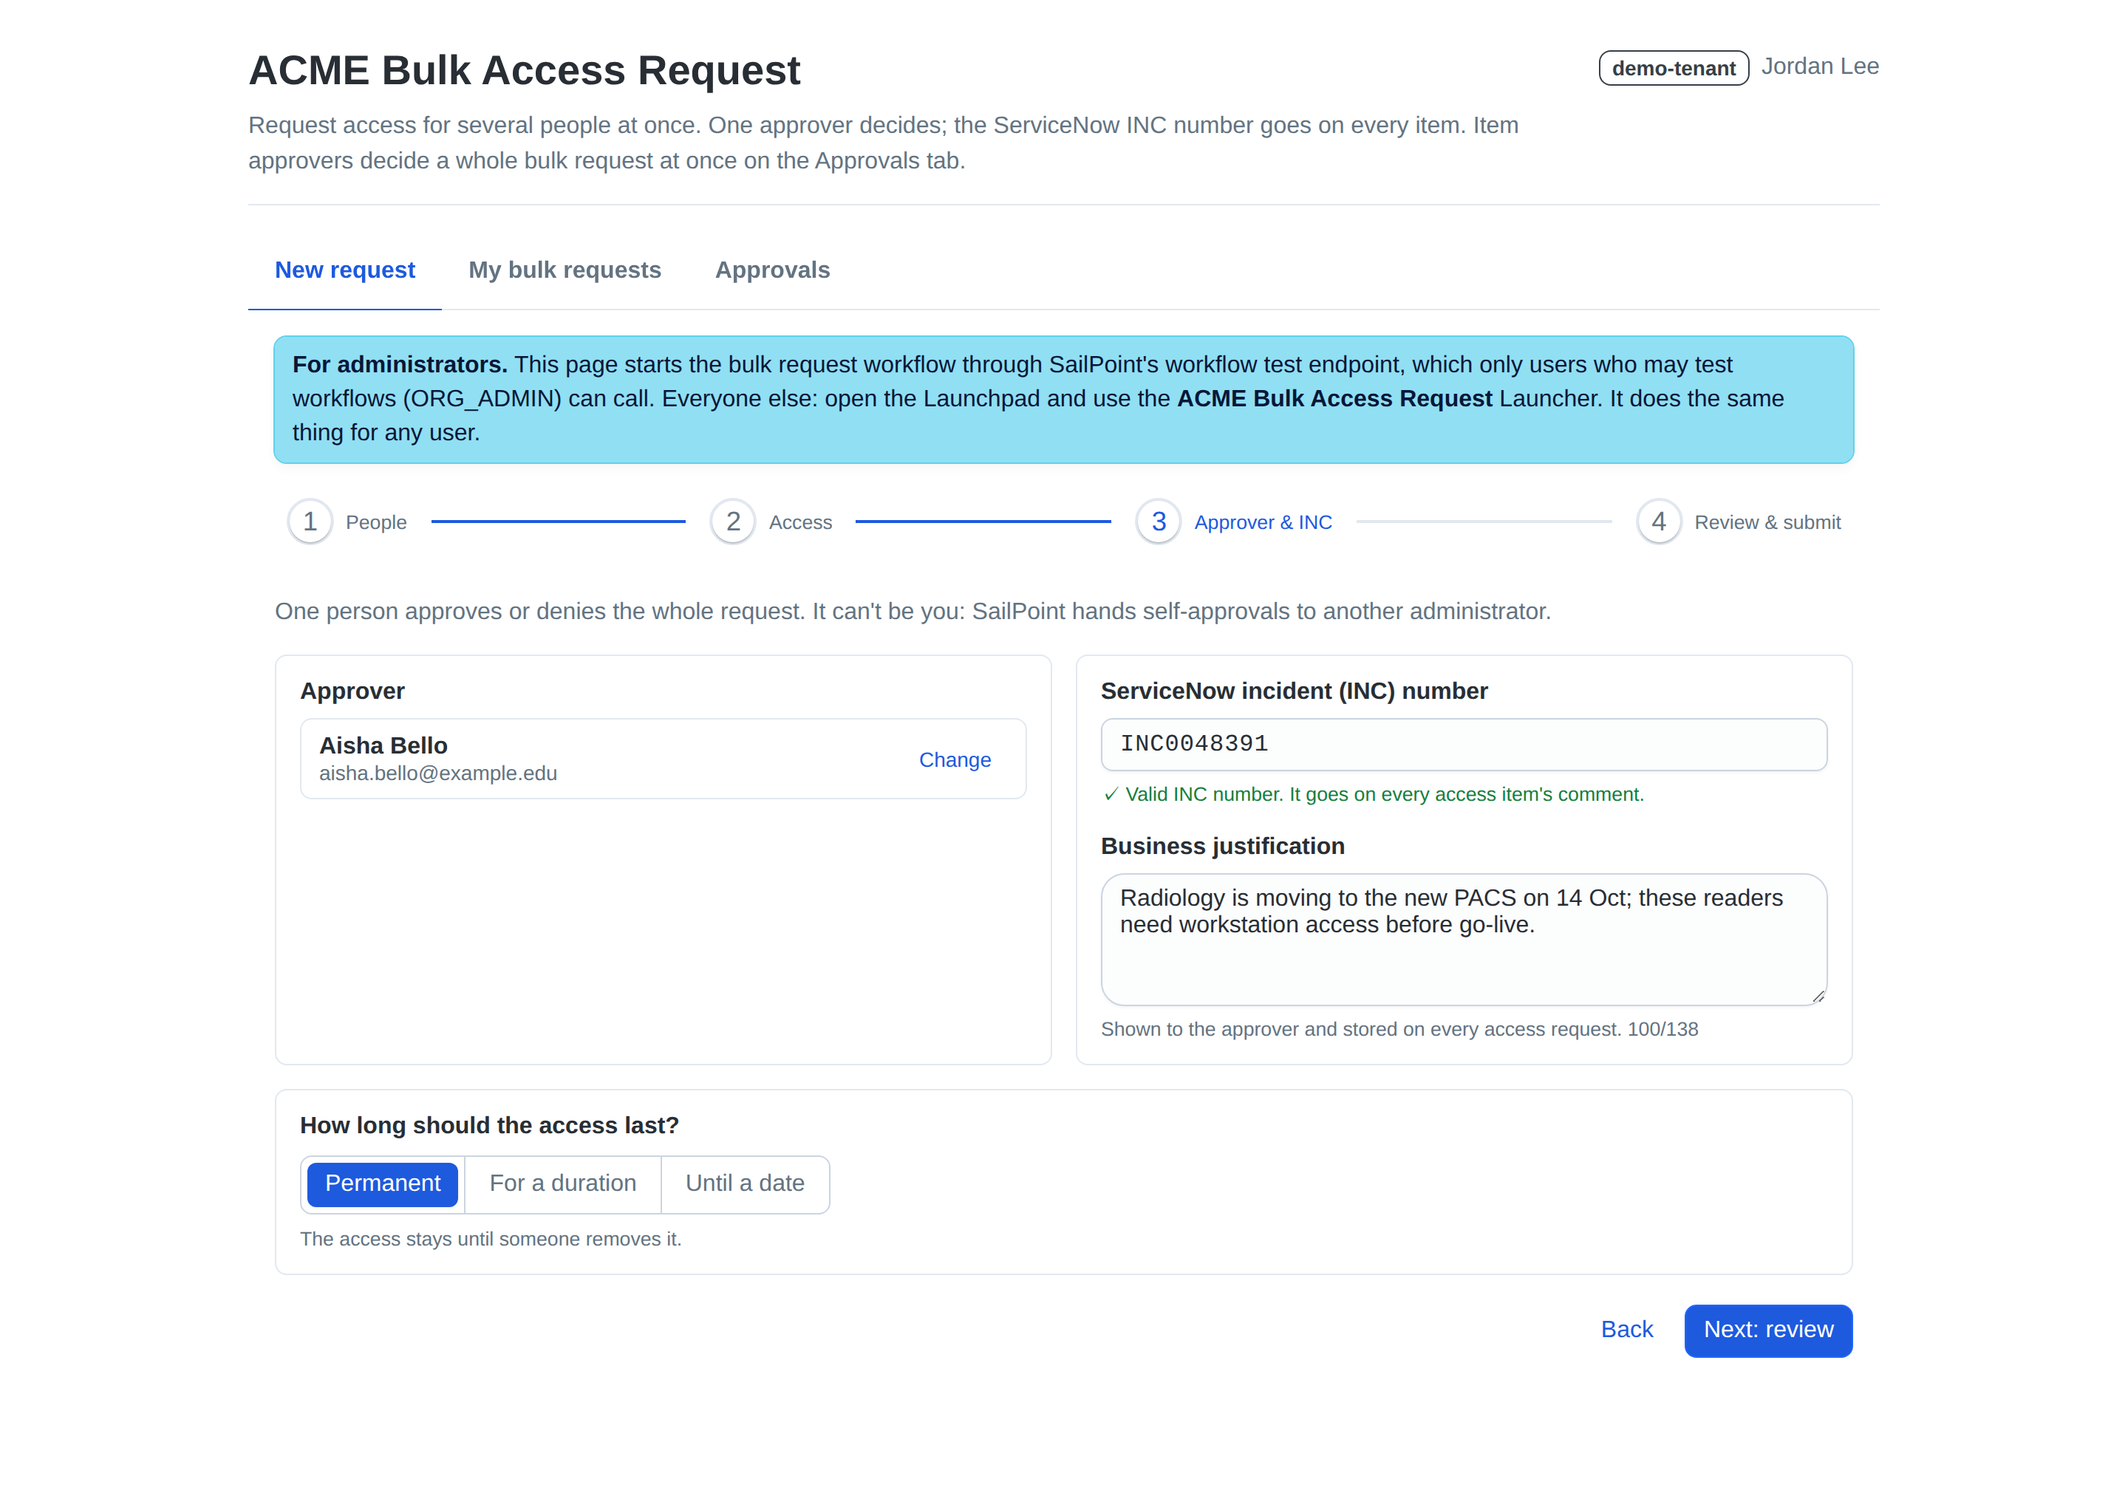
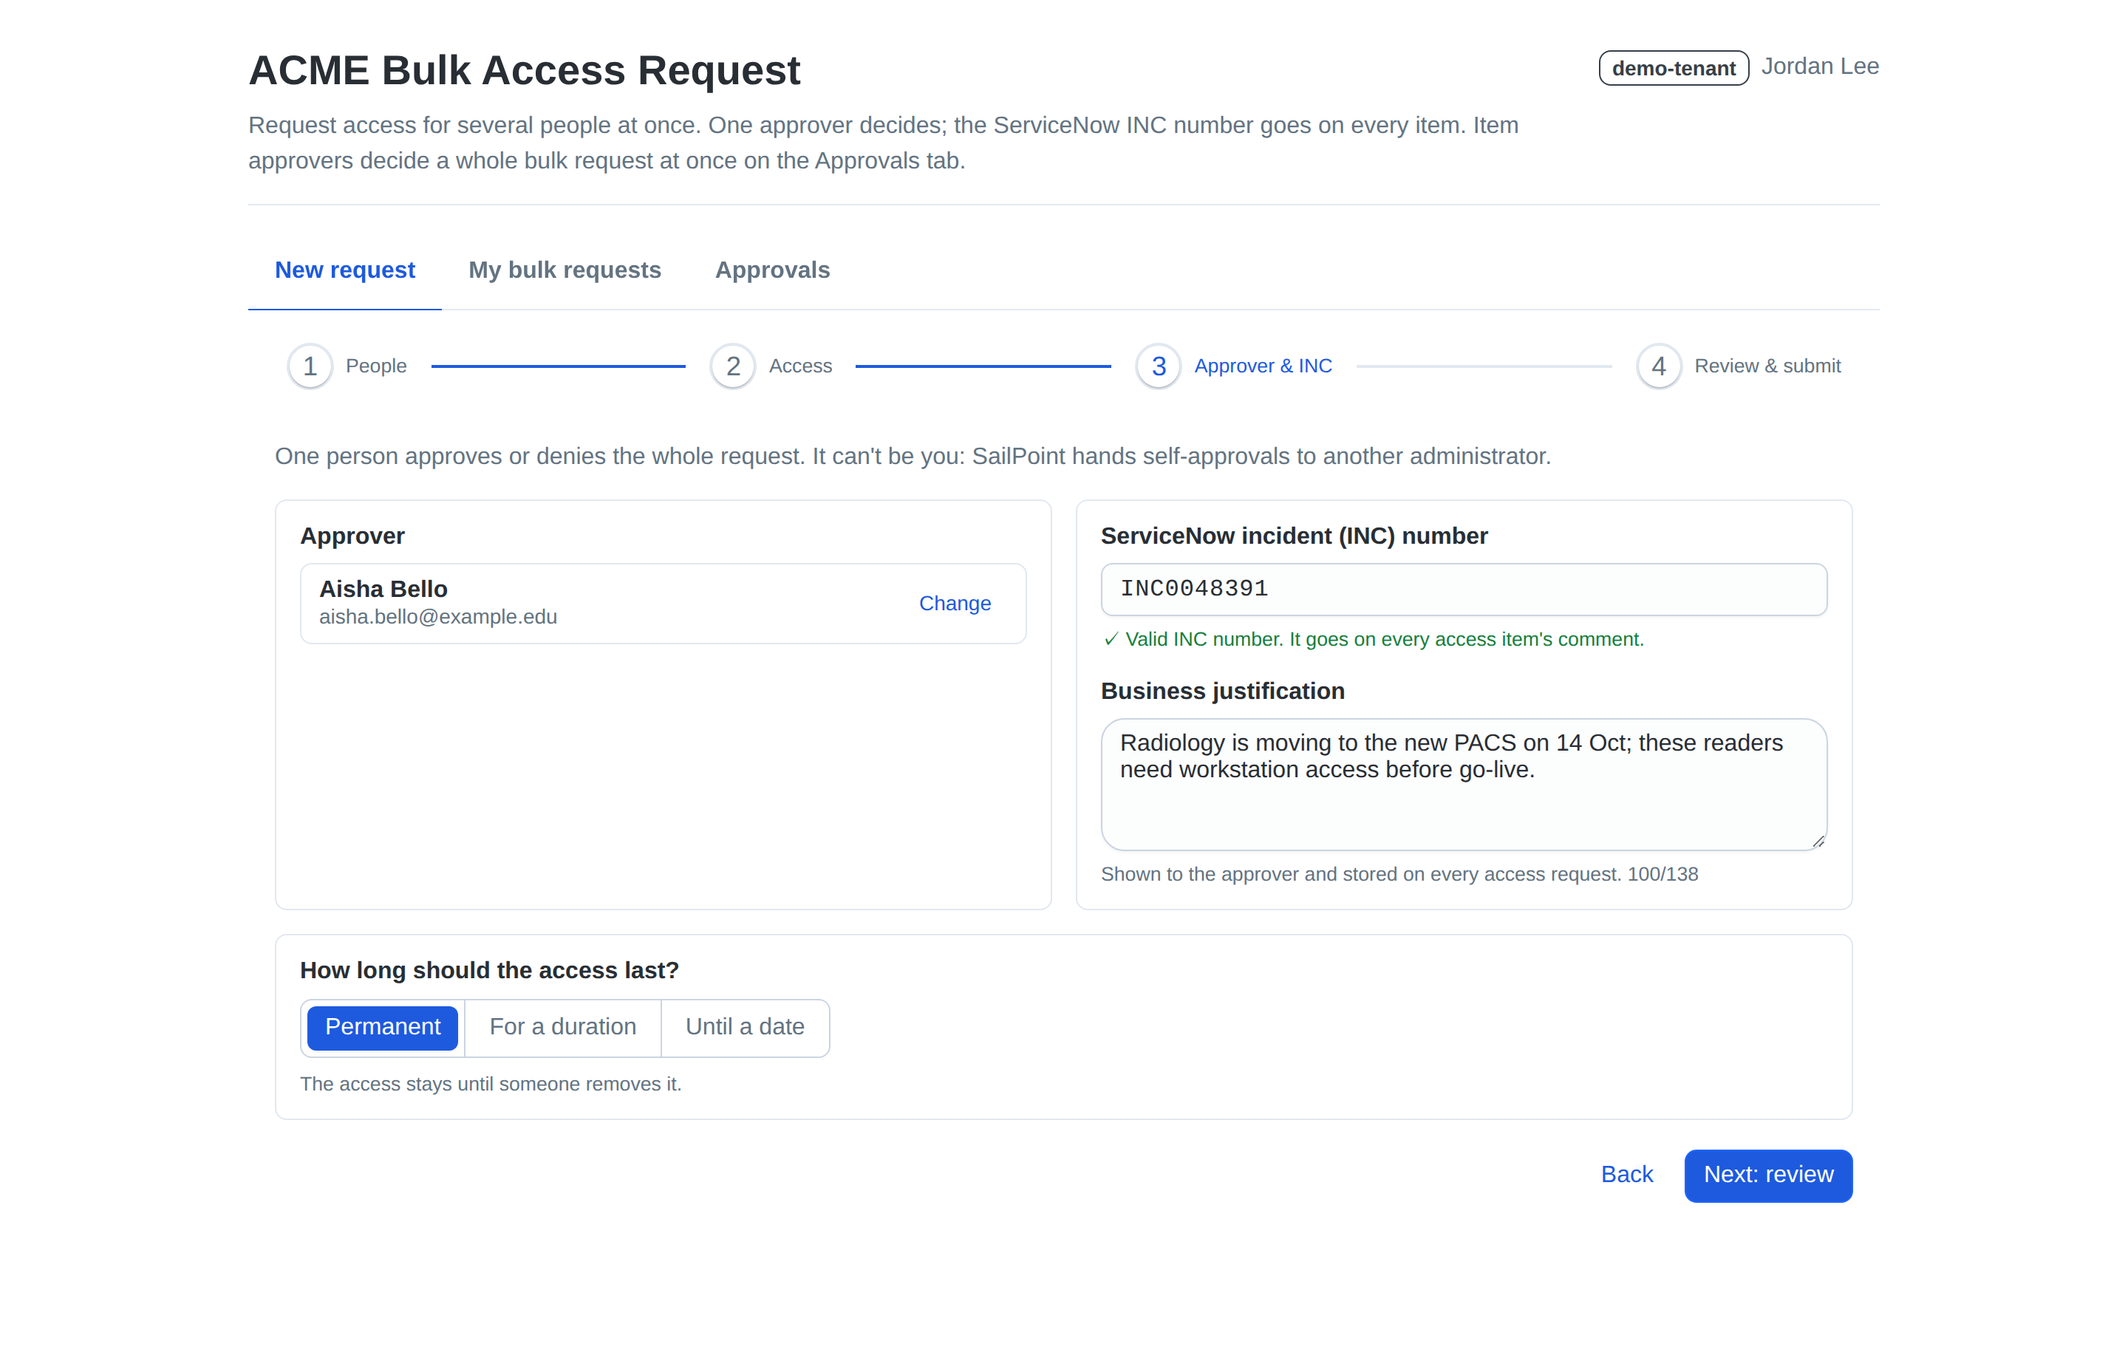
Final sweep: drop dead code, fix stale docs and demo texts, refresh screenshots
- pluginlib: plugin_workflow returns bulk_workflow as-is (no enabled/failureName
  fallbacks, no _loop_sees_workflow_state no-op)
- definitions: drop unused APPROVAL_COMMENT_MAX import; plugin trigger
  description built from PLUGIN_INPUT
- bulk-api.service.ts: drop unread type fields (and the fixture priority)
- capture.mjs: title/closing cards and scene 5 describe launcher submit mode
- CONTRACTS, API_INVENTORY, REQUIREMENTS_CHECKLIST, BULK_APPROVALS_DESIGN,
  plugin/README: stale statements fixed
- docs/screenshots/plugin-*.png re-captured (no stale admin banner)

diff --git a/plugin/src/app/bulk/bulk-api.service.ts b/plugin/src/app/bulk/bulk-api.service.ts
@@ -57,8 +57,6 @@ export type ResolveProgress = (done: number, total: number) => void;
 export interface Execution {
   id: string;
   status: 'Running' | 'Completed' | 'Failed' | 'Canceled' | string;
-  startTime?: string;
-  closeTime?: string;
 }
 
 /**
@@ -171,7 +169,6 @@ export interface GenericApproval {
   /** The item's approval scheme(s), e.g. ACCESS_PROFILE_OWNER or MANAGER. */
   approvalConfig?: { serialChain?: { tier?: number; identityType?: string }[] | null } | null;
   dueDate?: string | null;
-  priority?: string | null;
 }
 
 /** Approve or deny (the generic-approvals verbs are approve and reject). */
@@ -204,13 +201,11 @@ const PENDING_FILTER = 'status eq "PENDING" and type eq "ACCESS_REQUEST_APPROVAL
 
 /** The fields of a /v3/access-request-status row the page reads. */
 export interface AccessRequestStatus {
-  accessRequestId?: string;
   id: string;
   name: string;
   type: string;
   state: string;
   created?: string;
-  modified?: string;
   requestedFor?: { id: string; name?: string };
   requester?: { id: string; name?: string };
   requesterComment?: { comment?: string } | null;

diff --git a/plugin/src/app/demo/fixtures.ts b/plugin/src/app/demo/fixtures.ts
@@ -201,7 +201,6 @@ function pending(n: number, person: { id: string; name: string }, item: string, 
     description: [{ value: it.description }],
     createdDate: created,
     dueDate: due,
-    priority: 'MEDIUM',
     requester: { identityID: DEMO_SERVICE.id, name: DEMO_SERVICE.name },
     requestee: { identityID: person.id, name: person.name },
     requestedTarget: { id: it.value.id, name: item, targetType: it.value.type, requestType: 'GRANT_ACCESS', removalDate },

diff --git a/core/bulkaccess/definitions.py b/core/bulkaccess/definitions.py
@@ -32,7 +32,7 @@ from dataclasses import dataclass
 from typing import Any
 
 from .config import DURATION_UNITS, Config
-from .rules import (APPROVAL_COMMENT_MAX, APPROVAL_DESCRIPTION_MAX, APPROVER_LABEL, COMMENT_SEPARATOR, MSG_APPROVER_IN_PEOPLE,
+from .rules import (APPROVAL_DESCRIPTION_MAX, APPROVER_LABEL, COMMENT_SEPARATOR, MSG_APPROVER_IN_PEOPLE,
                     MSG_DURATION_NUMBER, MSG_DURATION_UNIT, REQUESTER_LABEL, duration_regex, msg_max_days, unit_max_count)
 
 VARIANTS = ("launcher", "plugin")
@@ -52,6 +52,8 @@ PART_LABEL_REGEX = r"^ \([1-9][0-9]*/[1-9][0-9]*\)$"
 # Plugin trigger input (CONTRACTS section 3); every field is always present.
 PLUGIN_INPUT = ("people", "items", "approverId", "requesterId", "inc", "justification",
                 "part", "parts", "partLabel", "removeDuration", "accessLabel")
+# How the plugin trigger's description shows some of them.
+PLUGIN_INPUT_HINTS = {"people": "people[]", "items": "items[]", "removeDuration": 'removeDuration ("" = permanent)'}
 
 
 def launcher_duration_units(cfg: Config) -> tuple[str, ...]:
@@ -712,8 +714,7 @@ def bulk_workflow(cfg: Config, *, variant: str, owner_id: str, owner_name: str |
     else:
         trigger = {"type": "EXTERNAL", "attributes": {
             "name": f"{cfg.plugin_alias}-workflow",
-            "description": "Input: people[], items[], approverId, requesterId, inc, justification, part, parts, "
-                           "partLabel, removeDuration (\"\" = permanent), accessLabel"}}
+            "description": "Input: " + ", ".join(PLUGIN_INPUT_HINTS.get(f, f) for f in PLUGIN_INPUT)}}
         description = (f"{cfg.prefix} Bulk Access Request for the UI plugin ({cfg.mode}). Started through the "
                        "workflow test endpoint, once per part of up to 250 people, so it must stay DISABLED. "
                        "Installed by bulk-access-request/plugin/install.py.")
@@ -761,6 +762,6 @@ def pretty(obj: Any) -> str:
     return json.dumps(obj, indent=2, sort_keys=False)
 
 
-__all__ = ["bulk_form", "bulk_workflow", "bulk_launcher", "VARIANTS", "APPROVAL_COMMENT_MAX", "PLUGIN_INPUT", "EmailLinks",
+__all__ = ["bulk_form", "bulk_workflow", "bulk_launcher", "VARIANTS", "PLUGIN_INPUT", "EmailLinks",
            "launcher_duration_units", "launcher_offers_temporary", "launcher_workflow_units", "plugin_duration_regex",
            "F_PART_LABEL", "PART_LABEL_REGEX"]

diff --git a/plugin/pluginlib.py b/plugin/pluginlib.py
@@ -108,33 +108,7 @@ def plugin_workflow(cfg: Config, owner_id: str, owner_name: str | None,
                     links: definitions.EmailLinks | None = None) -> dict[str, Any]:
     """The plugin workflow body, always DISABLED (it only runs through the test endpoint). `links`: where its
     emails point (the tenant's UI and the plugin page)."""
-    body = definitions.bulk_workflow(cfg, variant="plugin", owner_id=owner_id, owner_name=owner_name, links=links)
-    body["enabled"] = False
-    # SailPoint's validator rejects failure end steps without failureName/description
-    # (error e300). Newer core versions set them; fill them in for older ones.
-    for step in body["definition"]["steps"].values():
-        if step.get("type") == "failure":
-            step.setdefault("failureName", "Bulk request rejected")
-            step.setdefault("description", "Stopped before approval: the approver was the requester, "
-                                           "or the INC number was invalid.")
-    _loop_sees_workflow_state(body)
-    return body
-
-
-def _loop_sees_workflow_state(body: dict[str, Any]) -> None:
-    """Steps inside a SailPoint loop only see `$.loop.*`. Templates such as
-    "{{$.trigger.inc}}" in Manage Access's comment stay literal unless the loop's
-    context is the whole workflow state ("$") and the paths go through it.
-    Verified live; a no-op once core/definitions.py builds the loop this way."""
-    loop = body["definition"]["steps"].get("Request Access")
-    if not loop or loop["attributes"].get("context.$") == "$":
-        return
-    attrs = loop["attributes"]
-    manage = attrs["steps"]["Manage Access"]["attributes"]
-    items_path = attrs["context.$"]                    # e.g. "$.trigger.items"
-    attrs["context.$"] = "$"
-    manage["requestedItems.$"] = "$.loop.context" + items_path[1:]
-    manage["comments"] = manage["comments"].replace("{{$.", "{{$.loop.context.")
+    return definitions.bulk_workflow(cfg, variant="plugin", owner_id=owner_id, owner_name=owner_name, links=links)
 
 
 def owned_by_us(cfg: Config, name: str | None) -> bool:

diff --git a/docs/dev/CONTRACTS.md b/docs/dev/CONTRACTS.md
@@ -147,6 +147,7 @@ python bulkaccess.py show-config --config config/<tenant>.json
 python bulkaccess.py apply       --config … [--dry-run] [--only launcher|plugin] [--deploy] [--grant me|<ids>]
 python bulkaccess.py status      --config … [--only …]
 python bulkaccess.py uninstall   --config … [--only …] [--yes]
+python bulkaccess.py export      --config … [--only …] [--offline] [--out DIR]
 ```
 `apply` runs the Launcher before the plugin: in launcher submit mode `plugin/install.py` looks the Launcher up by name and stops
 with a clear error when it's missing. It runs each enabled deployment by calling the existing `launcher/*.py` and `plugin/*.py` `main(argv)` functions. They're loaded
@@ -262,7 +263,7 @@ spoofed). With the admin PAT, 250 people in one form reached the workflow intact
 *Approver In People?*).
 
 **Following a part** (only what a non-admin can read; no `workflow-executions`): `GET /v2025/generic-approvals?limit=250&sorters=-createdDate&requesterId=<me>` (the **query parameter**: `filters=requesterId eq …` returns `[]` for a non-admin ✔ non-admin)
-(filter and newest-first sort work ✔ PAT; not yet checked with a non-admin session), matched by `workflowExecutionId` or by name
+(filter and newest-first sort work ✔ PAT), matched by `workflowExecutionId` or by name
 `Bulk access {inc}{partLabel}`; decided → done. Until the approval exists, the process's blocks are read again: a non-FORM block
 with category `ERROR` (the workflow's *Reject …* interactive messages; shape assumed from the FORM block) → "The workflow stopped
 before the approval: {title}: {message}". After 10 minutes, "still waiting".
@@ -289,8 +290,7 @@ Verified live on 2026-10-09 (demo tenant, `sp:send-email` v2):
   approver's behalf) and `comments[]`: the first is the one the workflow set, later ones are the decision's.
 
 What the emails do with that:
-- The body is a **Velocity** template rendered by SailPoint's email service with the step's `context`. So the body is
-  **constant markup** (no `{{…}}`, no `##`, no `#` outside directives, colours as `rgb()`), and every value travels in the
+- Because the body is Velocity (above), it is **constant markup** (no `{{…}}`, no `##`, no `#` outside directives, colours as `rgb()`), and every value travels in the
   context as **JSONPath** (`"key.$"`), never as a `{{…}}` template: a template value with a newline, quote or backslash
   fails the send. Config text goes in as plain context values. `core/tests/velocity_lite.py` renders a step the way
   SailPoint does; 8 real bodies (one-item lists, a hostile multi-line justification, missing paths) were checked

diff --git a/docs/sailpoint/REQUIREMENTS_CHECKLIST.md b/docs/sailpoint/REQUIREMENTS_CHECKLIST.md
@@ -24,7 +24,7 @@ and deprecation details are in [API_CONTRACT_ALIGNMENT.md](API_CONTRACT_ALIGNMEN
 | ☐ | **Request Center** has requestable, **enabled** access profiles or roles, or **requestable entitlements** | A, B | `GET /v3/requestable-objects?types=ACCESS_PROFILE&types=ROLE&limit=5` is not empty · entitlements: `GET /v2025/entitlements?filters=requestable eq true&limit=5` is not empty (`requestable-objects` never returns entitlements [L], so the tool reads them here) · UI: Request Center |
 | ☐ | **Item approval schemes** are known (they still apply after the bulk approval; one approval per person and item) | A, B | `GET /v3/access-profiles/{id}` → `accessRequestConfig.approvalSchemes` · UI: Admin → Access Profiles → Access Request settings |
 | ☐ | **Workflow test endpoint** allowed for disabled workflows (only with `plugin.submit: "test-endpoint"`: the plugin starts runs this way) | B | After install, a dry-run submit from the plugin creates an execution · UI: Admin → Workflows → "<prefix> Bulk Access Request (Plugin)" → Execution History |
-| ☐ | **Email** delivery works for workflow emails (approved, denied, rejected) | A, B | UI: Admin → Global → Email configuration (or the tenant's custom sender) · a dry-run with `notifications.overrideRecipients` set to a test inbox |
+| ☐ | **Email** delivery works for workflow emails (pending, approved, denied, rejected; both deployments) | A, B | UI: Admin → Global → Email configuration (or the tenant's custom sender) · a dry-run with `notifications.overrideRecipients` set to a test inbox |
 | ☐ | Identities have an **email** attribute (requester, plus the approver for cc) | A, B | `GET /v2025/identities/{id}` → `attributes.email` |
 
 ## 2. Identities and user levels

diff --git a/plugin/README.md b/plugin/README.md
@@ -327,7 +327,7 @@ catalog filter, `splitIntoParts` / `partLabel`, temporary-access checks and the 
 | "The workflow … is not installed" (test-endpoint mode) | Run `install.py` against this tenant. The page finds the workflow by ID (from the runtime config) or by name. |
 | Someone can't be found by search | New identities can take a while to reach the search index. The page also looks people up through their accounts. If that fails too, paste their identity ID. |
 | An access request shows **Cancelled: "Already has a pending request for this item"** | That person already had an open request for the item. SailPoint skips duplicates. |
-| The workflow run **Failed** and no approval appeared | The workflow's own checks stopped it: the INC was invalid or the approver was the requester. The requester gets an email (test-endpoint mode); through the Launcher, the page shows the Launcher's message. |
+| The workflow run **Failed** and no approval appeared | The workflow's own checks stopped it: the INC was invalid or the approver was the requester. The requester gets an email in both submit modes (through the Launcher, after the page shows the Launcher's message on the Launchpad). |
 | `sail` prints "Secrets storage is not currently functional" | This is harmless. The scripts pass the PAT through environment variables. |
 | "Part 2 didn't start" after submitting a big request | That part's launch or form submission (or test-endpoint call) failed; the message says why. The other parts are unaffected; press **Retry part 2**. |
 | "To submit, you need '… Launcher Access'" | The user doesn't hold the Launcher Access profile (yet). They request it in the Request Center; once it's provisioned (about a minute), submit again. |

diff --git a/docs/dev/BULK_APPROVALS_DESIGN.md b/docs/dev/BULK_APPROVALS_DESIGN.md
@@ -113,12 +113,12 @@ required to deny.
   - **new:** `bulk/approvals.ts` (pure grouping and filters), `bulk/approvals-store.ts` (modelled on `request-store.ts`:
     signals, polling, generation guard) and `features/approvals/*`;
   - **changed:** `bulk/nav.ts` (`TabId` + `'approvals'`), `app.ts` and `app.html` (third tab, banner only on *New
-    request*), `bulk/bulk-api.service.ts` (`pendingAccessApprovals()` and `decide()`), `bulk/errors.ts` (wording by
+    request*), `bulk/bulk-api.service.ts` (`pendingAccessApprovals()` and `decideApprovals()`), `bulk/errors.ts` (wording by
     context), `bulk/rules.ts`, `bulk/runtime-config.ts` and `demo/*`.
 - **Core:** `rules.py` (`parse_bulk_comment`, `COMMENT_SEPARATOR`, and `definitions.py` builds the comment with that
   separator), `config.py` (the `approvals` block and derived values) and the example config.
-- **Install:** `plugin/pluginlib.py` (runtime config, manifest description, `restrictToUsers`) and `plugin/install.py`
-  (visibility warning).
+- **Install:** `plugin/pluginlib.py` (runtime config, manifest description, `restrictToUsers`); the visibility warning
+  lives in `bulkaccess.py` (`show-config`).
 - **Tests:**
   - **new:** `approvals.spec.ts` and `approvals-store.spec.ts`;
   - **extended:** `bulk-api.service.spec.ts`, `rules.spec.ts` / `rules.py` mirror cases, `core/tests/test_core.py`

diff --git a/docs/sailpoint/API_INVENTORY.md b/docs/sailpoint/API_INVENTORY.md
@@ -184,7 +184,7 @@ Built by `core/bulkaccess/definitions.py`. **Library status** comes from `GET /v
 | `sp:generic-approval` v1 | both: *Bulk Approval* | **One approval** (`approvalType SINGLE`, `singleApproverCategory IDENTITY`), with a timeout, the action at timeout and a priority | v1, not deprecated |
 | `sp:loop:iterator` v1 | both (live mode only): *Request Access* | One iteration per person (≤ 250), `context.$: "$"` | v1, not deprecated |
 | `sp:access:manage` **v2** (inside the loop) | both: *Manage Access* | `GRANT_ACCESS`, all items, `removeDuration` (`""` = permanent), comment `INC… \| Bulk access request by … \| Approved by … \| … \| …` | v2 current |
-| `sp:send-email` **v2** | both: approved, denied; plugin rejects | Requester (cc the approver), or `overrideRecipients` | v2 current (**v1 deprecated**, not used) |
+| `sp:send-email` **v2** | both: pending, approved, denied, rejected | Requester (cc the approver), or `overrideRecipients` | v2 current (**v1 deprecated**, not used) |
 | `sp:operator-success` and `sp:operator-failure` | both | End steps (failure carries `failureName` and `description`) | present |
 
 **Deliberately not used:** `sp:create-approval-request` (the library now marks it **deprecated** [L], and it breaks
